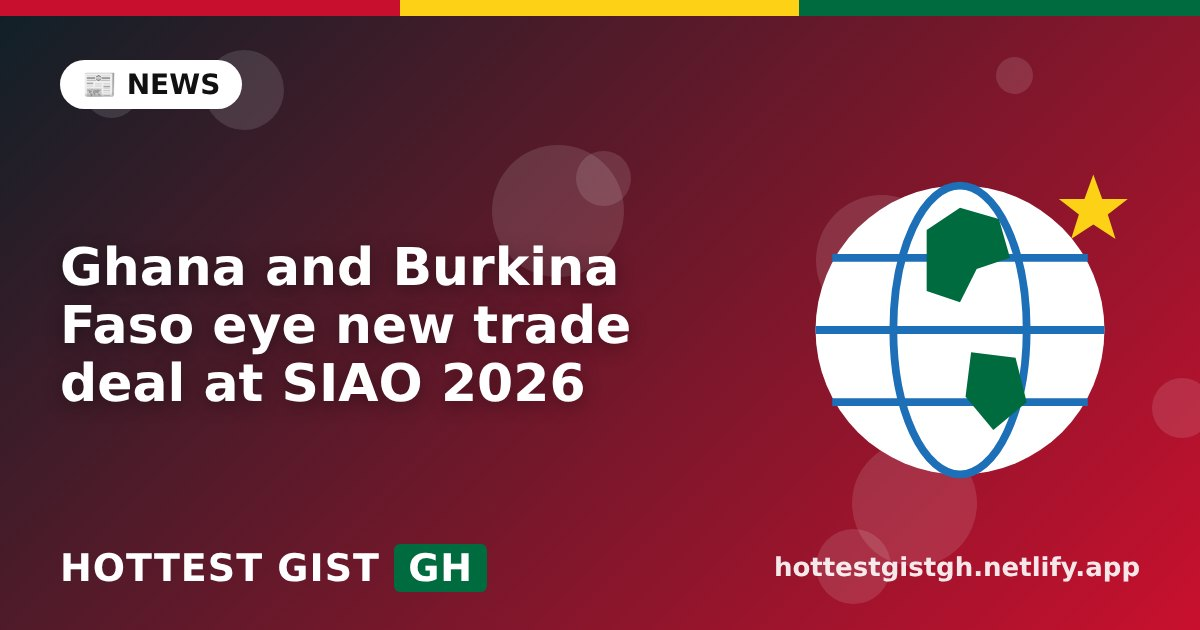
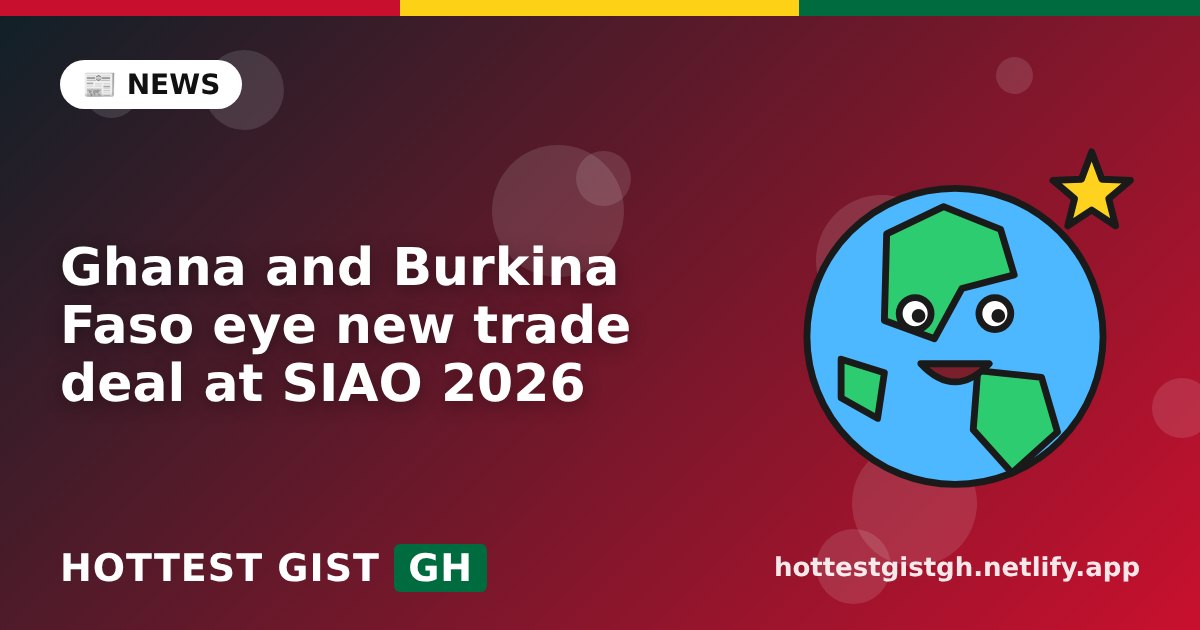
Cartoon-style cover illustrations with faces and outlines
Claude-Session: https://claude.ai/code/session_01BXd4B9AEnZGQEtneuyL2Ve

Changed region(s): [[0.6475, 0.2413, 0.9558, 0.7841]]

diff --git a/tools/cover.py b/tools/cover.py
@@ -22,47 +22,73 @@ EMOJI = {"Afrobeats": "🔥", "Highlife": "🎺", "Hiplife": "🎤", "Gospel": "
 
 
 ART = {
-"school": """<rect x="55" y="160" width="250" height="150" rx="8" fill="#fff"/>
-<polygon points="35,165 180,75 325,165" fill="#fcd116"/>
-<rect x="154" y="225" width="52" height="85" rx="5" fill="#c8102e"/>
-<rect x="80" y="190" width="42" height="42" rx="4" fill="#9ec5ff"/><rect x="238" y="190" width="42" height="42" rx="4" fill="#9ec5ff"/>
-<circle cx="180" cy="135" r="17" fill="#fff"/><path d="M180 124v11l8 5" stroke="#333" stroke-width="3" fill="none" stroke-linecap="round"/>
-<rect x="178" y="30" width="4" height="48" fill="#fff"/><polygon points="182,32 222,44 182,56" fill="#006b3f"/>
-<rect x="30" y="312" width="300" height="12" rx="6" fill="rgba(255,255,255,.55)"/>
-<rect x="250" y="262" width="62" height="46" rx="4" fill="#fcd116" transform="rotate(-8 280 285)"/><rect x="256" y="268" width="50" height="34" rx="3" fill="#fff" transform="rotate(-8 280 285)"/>""",
-"gold": """<polygon points="40,290 70,230 190,230 220,290" fill="#fcd116"/><polygon points="130,230 160,170 280,170 310,230" fill="#f7b500"/><polygon points="70,230 100,170 190,170 160,230" fill="#ffe27a"/>
-<polygon points="95,170 120,115 215,115 190,170" fill="#fcd116"/>
-<circle cx="285" cy="285" r="38" fill="#fcd116"/><circle cx="285" cy="285" r="28" fill="none" stroke="#c98a00" stroke-width="5"/><text x="285" y="297" font-size="34" font-weight="800" text-anchor="middle" fill="#c98a00" font-family="DejaVu Sans">$</text>
-<circle cx="60" cy="150" r="26" fill="#fcd116"/><circle cx="60" cy="150" r="18" fill="none" stroke="#c98a00" stroke-width="4"/>
-<path d="M240 90l6 16 17 1-13 11 4 17-14-10-15 10 5-17-13-11 17-1z" fill="#fff"/>""",
-"stage": """<polygon points="180,20 90,330 270,330" fill="rgba(255,255,255,.22)"/>
-<ellipse cx="180" cy="326" rx="140" ry="18" fill="rgba(0,0,0,.28)"/>
-<circle cx="180" cy="130" r="38" fill="#fff"/>
-<path d="M105 320c0-70 30-135 75-135s75 65 75 135z" fill="#fff"/>
-<rect x="212" y="122" width="12" height="62" rx="6" fill="#222" transform="rotate(18 218 150)"/><circle cx="229" cy="112" r="15" fill="#222" transform="rotate(18 218 150)"/>
-<path d="M205 185l30-25" stroke="#fff" stroke-width="16" stroke-linecap="round"/>
-<g fill="#fcd116"><circle cx="50" cy="90" r="10"/><rect x="58" y="40" width="5" height="52"/><path d="M63 40q28 8 30 30"/></g>
-<g fill="#fff"><circle cx="305" cy="70" r="9"/><rect x="311" y="22" width="5" height="50"/></g>
-<path d="M40 40l5 12 13 1-10 9 3 13-11-7-11 7 3-13-10-9 13-1z" fill="#fcd116"/>""",
-"mic": """<rect x="140" y="40" width="80" height="140" rx="40" fill="#fff"/><path d="M110 150a70 70 0 0 0 140 0" stroke="#fff" stroke-width="14" fill="none" stroke-linecap="round"/>
-<rect x="172" y="220" width="16" height="60" fill="#fff"/><rect x="125" y="280" width="110" height="16" rx="8" fill="#fff"/>
-<g stroke="rgba(0,0,0,.2)" stroke-width="5"><path d="M150 80h60M150 105h60M150 130h60"/></g>
-<g fill="#fcd116"><circle cx="55" cy="95" r="12"/><rect x="64" y="40" width="6" height="58"/><circle cx="305" cy="125" r="12"/><rect x="314" y="70" width="6" height="58"/></g>""",
-"globe": """<circle cx="180" cy="180" r="130" fill="#fff"/><g fill="none" stroke="#1d6fb8" stroke-width="7"><ellipse cx="180" cy="180" rx="60" ry="130"/><path d="M50 180h260M65 115h230M65 245h230"/></g>
-<path d="M150 90l30-20 35 10 10 35-30 10-15 30-30-10z" fill="#006b3f"/><path d="M190 200l40 5 10 40-30 25-25-30z" fill="#006b3f"/>
-<polygon points="300,40 308,62 331,62 313,76 320,98 300,85 280,98 287,76 269,62 292,62" fill="#fcd116"/>""",
-"film": """<rect x="40" y="130" width="280" height="190" rx="12" fill="#fff"/><rect x="40" y="80" width="280" height="55" rx="8" fill="#222"/>
-<g fill="#fff"><polygon points="60,82 100,82 80,133 40,133"/><polygon points="130,82 170,82 150,133 110,133"/><polygon points="200,82 240,82 220,133 180,133"/><polygon points="270,82 310,82 290,133 250,133"/></g>
-<polygon points="150,190 150,270 220,230" fill="#c8102e"/>""",
-"ball": """<circle cx="180" cy="180" r="130" fill="#fff"/><polygon points="180,120 225,152 208,205 152,205 135,152" fill="#222"/>
-<g stroke="#222" stroke-width="6"><path d="M180 120V55M225 152l55-25M208 205l35 50M152 205l-35 50M135 152L80 127"/></g>
-<g fill="#222"><polygon points="180,40 205,58 195,86 165,86 155,58"/><polygon points="298,118 310,150 292,172 268,160 270,130"/><polygon points="62,118 90,130 92,160 68,172 50,150"/></g>""",
-"tech": """<rect x="70" y="90" width="220" height="150" rx="12" fill="#fff"/><rect x="85" y="105" width="190" height="120" rx="6" fill="#0b3d91"/>
-<path d="M40 250h280l-20 36H60z" fill="#fff"/><g fill="#fcd116"><path d="M130 140l-25 25 25 25" stroke="#fcd116" stroke-width="10" fill="none" stroke-linecap="round"/><path d="M230 140l25 25-25 25" stroke="#fcd116" stroke-width="10" fill="none" stroke-linecap="round"/></g>""",
-"tv": """<rect x="45" y="80" width="270" height="190" rx="16" fill="#fff"/><rect x="62" y="97" width="236" height="156" rx="8" fill="#12263f"/>
-<polygon points="160,140 160,210 220,175" fill="#fff"/><path d="M130 70l50 -40 50 40" stroke="#fff" stroke-width="8" fill="none" stroke-linecap="round"/><rect x="120" y="270" width="120" height="14" rx="7" fill="#fff"/>""",
-"ticket": """<path d="M40 110h280v50a22 22 0 0 0 0 44v50H40v-50a22 22 0 0 0 0-44z" fill="#fff"/><path d="M240 110v140" stroke="#c8102e" stroke-width="5" stroke-dasharray="12 10"/>
-<path d="M110 150l12 26 28 3-21 19 6 28-25-14-25 14 6-28-21-19 28-3z" fill="#fcd116"/>""",
+"school": """<rect x="50" y="150" width="260" height="160" rx="14" fill="#fff"/>
+<polygon points="28,158 180,62 332,158" fill="#fcd116"/>
+<rect x="150" y="232" width="60" height="78" rx="30 30 4 4" fill="#ff5a5f"/><circle cx="198" cy="274" r="5" fill="#fcd116"/>
+<circle cx="115" cy="205" r="26" fill="#bde0ff"/><circle cx="245" cy="205" r="26" fill="#bde0ff"/>
+<circle cx="115" cy="205" r="9" fill="#1a1a1a"/><circle cx="245" cy="205" r="9" fill="#1a1a1a"/><circle cx="118" cy="201" r="3" fill="#fff" stroke="none"/><circle cx="248" cy="201" r="3" fill="#fff" stroke="none"/>
+<path d="M165 215q15 14 30 0" fill="none"/>
+<circle cx="180" cy="122" r="20" fill="#fff"/><path d="M180 109v14l9 6" fill="none"/>
+<path d="M180 62V18" fill="none"/><path d="M180 20l46 14-46 14z" fill="#00a35c"/>
+<rect x="238" y="262" width="74" height="52" rx="6" fill="#ff7a00" transform="rotate(-10 275 288)"/><rect x="246" y="270" width="58" height="36" rx="4" fill="#fff" transform="rotate(-10 275 288)"/>
+<path d="M258 288l40-7" fill="none" stroke-width="4"/>
+<path d="M300 90l7 16 17 2-13 12 4 17-15-9-15 9 4-17-13-12 17-2z" fill="#fff"/>""",
+"gold": """<polygon points="30,300 62,232 200,232 232,300" fill="#ffd21f"/>
+<polygon points="110,232 142,164 280,164 312,232" fill="#ffb800"/>
+<polygon points="62,164 92,100 214,100 184,164" fill="#ffe56b" transform="translate(50 6)"/>
+<circle cx="130" cy="268" r="6" fill="#1a1a1a"/><circle cx="165" cy="268" r="6" fill="#1a1a1a"/><path d="M130 281q17 15 35 0" fill="none"/>
+<circle cx="282" cy="288" r="40" fill="#ffd21f"/><circle cx="282" cy="288" r="27" fill="#ffe56b"/>
+<path d="M282 270v36M271 278q11-8 22 0M271 298q11 8 22 0" fill="none" stroke-width="5"/>
+<circle cx="52" cy="150" r="28" fill="#ffd21f"/><circle cx="43" cy="146" r="4" fill="#1a1a1a" stroke="none"/><circle cx="61" cy="146" r="4" fill="#1a1a1a" stroke="none"/><path d="M40 158q12 12 24 0" fill="none" stroke-width="4"/>
+<path d="M250 60l8 20 21 2-16 14 5 21-18-12-18 12 5-21-16-14 21-2z" fill="#fff"/>
+<path d="M310 150l4 9 10 1-8 6 3 10-9-6-9 6 3-10-8-6 10-1z" fill="#fff" stroke-width="4"/>""",
+"stage": """<polygon points="180,10 70,336 290,336" fill="rgba(255,255,255,.25)" stroke="none"/>
+<ellipse cx="180" cy="334" rx="130" ry="16" fill="rgba(0,0,0,.3)" stroke="none"/>
+<path d="M92 330c0-78 36-128 88-128s88 50 88 128z" fill="#ff3d5a"/>
+<path d="M130 330c10-40 25-70 50-80 25 10 40 40 50 80z" fill="#ffd21f"/>
+<rect x="165" y="190" width="30" height="26" rx="8" fill="#8d5524"/>
+<circle cx="180" cy="140" r="52" fill="#a9682d"/>
+<circle cx="136" cy="104" r="24" fill="#2b1608"/><circle cx="224" cy="104" r="24" fill="#2b1608"/><circle cx="180" cy="86" r="30" fill="#2b1608"/><circle cx="150" cy="92" r="22" fill="#2b1608"/><circle cx="210" cy="92" r="22" fill="#2b1608"/>
+<circle cx="160" cy="138" r="8" fill="#fff"/><circle cx="200" cy="138" r="8" fill="#fff"/><circle cx="162" cy="140" r="4" fill="#1a1a1a" stroke="none"/><circle cx="202" cy="140" r="4" fill="#1a1a1a" stroke="none"/>
+<path d="M162 162q18 24 38 0z" fill="#7a1f2b"/><circle cx="143" cy="158" r="8" fill="#ff8aa0" stroke="none"/><circle cx="217" cy="158" r="8" fill="#ff8aa0" stroke="none"/>
+<path d="M215 215l32-38" stroke-width="22" stroke="#1a1a1a" fill="none"/><path d="M215 215l32-38" stroke-width="12" stroke="#a9682d" fill="none"/>
+<rect x="224" y="150" width="16" height="44" rx="8" fill="#555" transform="rotate(28 232 172)"/><circle cx="251" cy="144" r="17" fill="#ff5a5f" transform="rotate(28 232 172)"/>
+<path d="M52 70q0-26 24-26v62" fill="none" stroke-width="7" stroke="#1a1a1a"/><circle cx="46" cy="106" r="15" fill="#ffd21f"/><rect x="68" y="44" width="8" height="58" fill="#ffd21f"/>
+<circle cx="312" cy="96" r="14" fill="#fff"/><rect x="320" y="44" width="8" height="56" fill="#fff"/>
+<path d="M300 220l7 16 17 2-13 12 4 17-15-9-15 9 4-17-13-12 17-2z" fill="#ffd21f"/>""",
+"mic": """<rect x="130" y="30" width="100" height="160" rx="50" fill="#ff5a5f"/>
+<path d="M104 150a76 76 0 0 0 152 0" fill="none" stroke-width="16"/><path d="M104 150a76 76 0 0 0 152 0" fill="none" stroke="#fff" stroke-width="6"/>
+<rect x="168" y="224" width="24" height="56" fill="#ffd21f"/><rect x="116" y="278" width="128" height="22" rx="11" fill="#00a35c"/>
+<circle cx="160" cy="96" r="9" fill="#fff"/><circle cx="200" cy="96" r="9" fill="#fff"/><circle cx="162" cy="98" r="4" fill="#1a1a1a" stroke="none"/><circle cx="202" cy="98" r="4" fill="#1a1a1a" stroke="none"/>
+<path d="M160 128q20 20 40 0" fill="#7a1f2b"/>
+<circle cx="52" cy="100" r="14" fill="#ffd21f"/><rect x="62" y="40" width="8" height="62" fill="#ffd21f"/><circle cx="310" cy="140" r="14" fill="#fff"/><rect x="320" y="80" width="8" height="62" fill="#fff"/>""",
+"globe": """<circle cx="180" cy="190" r="130" fill="#4db8ff"/>
+<path d="M120 100l50-24 50 20 12 40-46 12-24 44-44-16z" fill="#2ecc71"/><path d="M200 220l56 6 14 48-40 36-34-38z" fill="#2ecc71"/><path d="M80 210l38 12-6 40-32-18z" fill="#2ecc71"/>
+<circle cx="145" cy="170" r="14" fill="#fff"/><circle cx="215" cy="170" r="14" fill="#fff"/><circle cx="148" cy="172" r="6" fill="#1a1a1a" stroke="none"/><circle cx="218" cy="172" r="6" fill="#1a1a1a" stroke="none"/>
+<path d="M150 214q30 32 60 0z" fill="#7a1f2b"/>
+<polygon points="300,28 309,52 334,53 315,69 321,93 300,79 279,93 285,69 266,53 291,52" fill="#ffd21f"/>""",
+"film": """<rect x="36" y="130" width="288" height="190" rx="16" fill="#fff"/>
+<rect x="36" y="76" width="288" height="58" rx="10" fill="#2b2b2b"/>
+<polygon points="56,78 104,78 84,132 36,132" fill="#ffd21f"/><polygon points="134,78 182,78 162,132 114,132" fill="#ff5a5f"/><polygon points="212,78 260,78 240,132 192,132" fill="#ffd21f"/><polygon points="290,78 330,78 320,132 270,132" fill="#ff5a5f"/>
+<circle cx="130" cy="210" r="11" fill="#1a1a1a"/><circle cx="230" cy="210" r="11" fill="#1a1a1a"/><circle cx="134" cy="206" r="4" fill="#fff" stroke="none"/><circle cx="234" cy="206" r="4" fill="#fff" stroke="none"/>
+<path d="M140 250q40 40 80 0z" fill="#7a1f2b"/>""",
+"ball": """<circle cx="180" cy="190" r="132" fill="#fff"/>
+<polygon points="180,128 226,160 208,214 152,214 134,160" fill="#2b2b2b"/>
+<path d="M180 128V62M226 160l58-26M208 214l34 54M152 214l-34 54M134 160L76 134" fill="none"/>
+<polygon points="180,52 208,70 198,100 162,100 152,70" fill="#2b2b2b"/><polygon points="300,126 316,160 296,184 268,170 272,138" fill="#2b2b2b"/><polygon points="60,126 88,138 92,170 64,184 44,160" fill="#2b2b2b"/>
+<circle cx="150" cy="182" r="7" fill="#fff" stroke="none"/><circle cx="210" cy="182" r="7" fill="#fff" stroke="none"/>""",
+"tech": """<rect x="64" y="80" width="232" height="164" rx="16" fill="#fff"/><rect x="82" y="98" width="196" height="128" rx="8" fill="#2d6cdf"/>
+<path d="M30 252h300l-24 40H54z" fill="#ffd21f"/>
+<circle cx="145" cy="150" r="12" fill="#fff"/><circle cx="215" cy="150" r="12" fill="#fff"/><circle cx="147" cy="152" r="5" fill="#1a1a1a" stroke="none"/><circle cx="217" cy="152" r="5" fill="#1a1a1a" stroke="none"/>
+<path d="M150 182q30 28 60 0" fill="none" stroke="#fff" stroke-width="7"/>""",
+"tv": """<rect x="40" y="80" width="280" height="196" rx="22" fill="#ff5a5f"/><rect x="60" y="100" width="240" height="156" rx="12" fill="#bfe9ff"/>
+<circle cx="140" cy="160" r="13" fill="#fff"/><circle cx="220" cy="160" r="13" fill="#fff"/><circle cx="142" cy="162" r="6" fill="#1a1a1a" stroke="none"/><circle cx="222" cy="162" r="6" fill="#1a1a1a" stroke="none"/>
+<path d="M145 200q35 34 70 0z" fill="#7a1f2b"/>
+<path d="M130 72l50-44 50 44" fill="none" stroke-width="8"/><rect x="110" y="276" width="140" height="18" rx="9" fill="#ffd21f"/>""",
+"ticket": """<path d="M30 100h300v56a26 26 0 0 0 0 52v56H30v-56a26 26 0 0 0 0-52z" fill="#ffd21f"/><path d="M246 100v164" stroke-dasharray="14 12" fill="none"/>
+<circle cx="120" cy="170" r="11" fill="#1a1a1a"/><circle cx="184" cy="170" r="11" fill="#1a1a1a"/><circle cx="123" cy="166" r="4" fill="#fff" stroke="none"/><circle cx="187" cy="166" r="4" fill="#fff" stroke="none"/>
+<path d="M120 198q32 32 64 0z" fill="#7a1f2b"/>
+<path d="M290 40l8 18 19 2-14 13 4 19-17-10-17 10 4-19-14-13 19-2z" fill="#fff"/>""",
 }
 def pick_art(title, cat):
     t = title.lower()
@@ -88,7 +114,7 @@ def make(title, cat, out):
     <style>i{{position:absolute;border-radius:50%;background:rgba(255,255,255,.12)}}</style>{dots}
     <div style="position:absolute;top:0;left:0;right:0;height:16px;background:linear-gradient(90deg,#c8102e 33.3%,#fcd116 33.3% 66.6%,#006b3f 66.6%)"></div>
     <div style="position:absolute;left:60px;top:60px;background:#fff;color:#111;font:800 28px 'DejaVu Sans',sans-serif;padding:8px 22px;border-radius:40px">{e} {html.escape(cat.upper())}</div>
-    <svg viewBox="0 0 360 360" style="position:absolute;right:40px;top:130px;width:400px;height:400px">{art}</svg>
+    <svg viewBox="0 0 360 360" style="position:absolute;right:40px;top:120px;width:410px;height:410px"><g stroke="#1a1a1a" stroke-width="6" stroke-linejoin="round" stroke-linecap="round">{art}</g></svg>
     <div style="position:absolute;left:60px;right:480px;top:150px;bottom:130px;display:flex;align-items:center;
       font:800 {size}px/1.12 'DejaVu Sans',sans-serif;text-shadow:0 4px 18px rgba(0,0,0,.35)">{html.escape(title)}</div>
     <div style="position:absolute;left:60px;bottom:40px;font:800 38px 'DejaVu Sans',sans-serif;letter-spacing:1px">HOTTEST GIST <span style="background:#006b3f;padding:2px 14px;border-radius:6px">GH</span></div>
